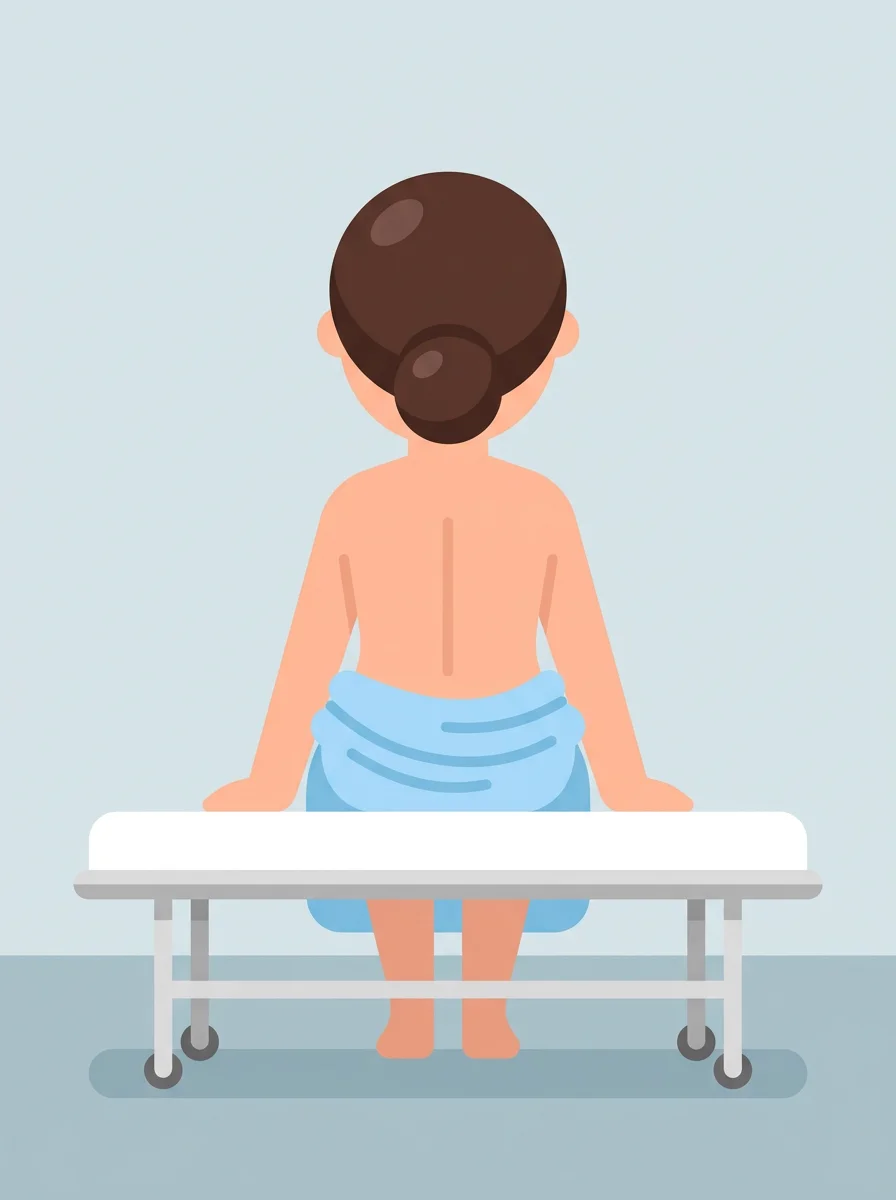
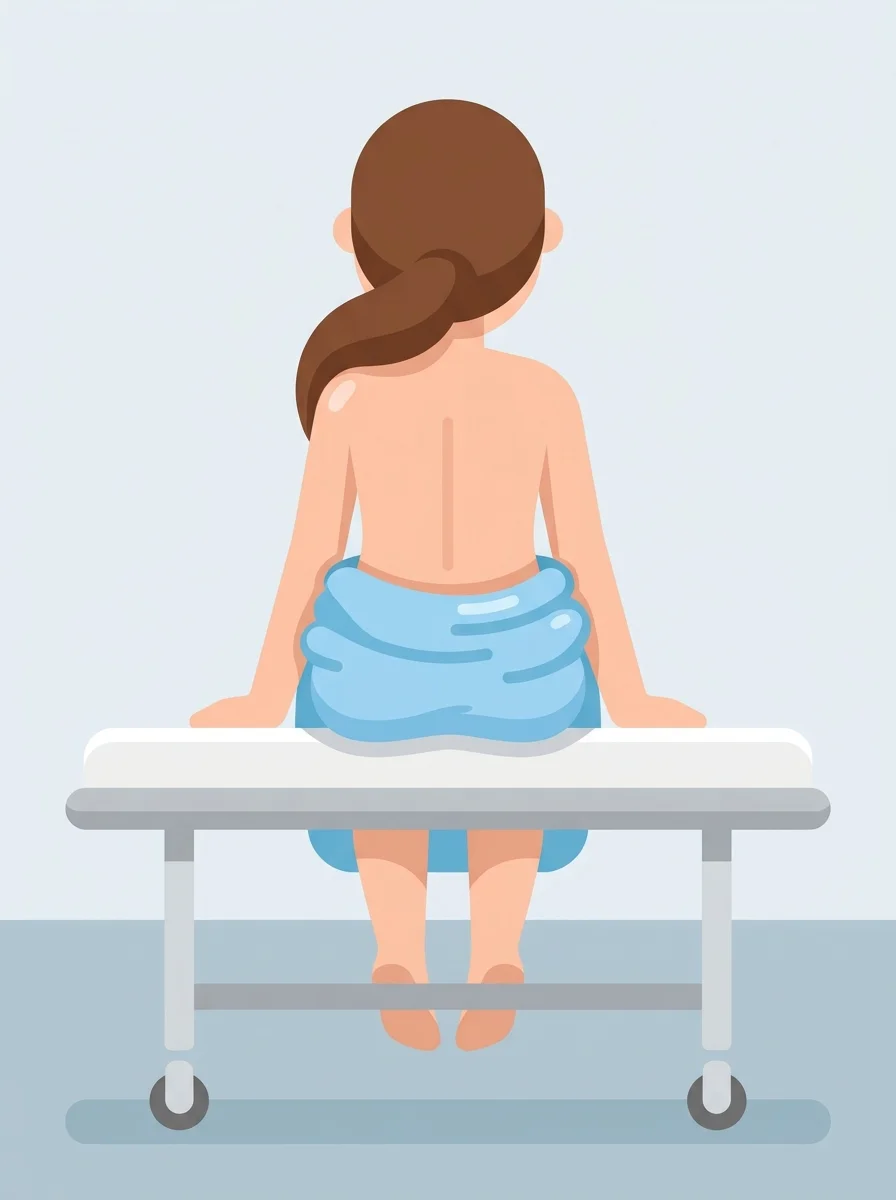
feat(plantao): fotos e corpos da ausculta coerentes com cada caso (Flow)
- Fotos do prontuário: politrauma (estava sem foto), TEP com cara de 59 anos (parecia ter mais de 70) e bebê de verdade na bronquiolite.
- Ausculta: DPOC com o próprio paciente (grisalho, cateter de O2) e choque anafilático com a mulher de 38 anos de rabo de cavalo; campos dos pulmões medidos em cada imagem.

diff --git a/src/features/plantao/PlantaoCena.jsx b/src/features/plantao/PlantaoCena.jsx
@@ -10,6 +10,8 @@ import falasAna from "@/data/falas/enfermeira-ana.json";
 import Prontuario from "./componentes/Prontuario.jsx";
 import FolhaResposta from "@/components/feedback/FolhaResposta.jsx";
 
+const CORPO_DA_AUSCULTA = { dpoc: "dpoc", choque_anafilatico: "mulher" };
+
 const RETORNO = {
   incompleto: { titulo: "Faltou um pedaço.", texto: "Responda de novo completando o que a Ana pediu." },
   nao_sabe: { titulo: "Sem problema.", texto: "Olhe o prontuário e tente responder com o que encontrar." },
@@ -59,8 +61,9 @@ export default function PlantaoCena({ cenario, onFinalizado, onSair, onProgresso
   // Retorno visual quando a resposta não fecha (a Ana também fala; aqui fica escrito para o aluno completar).
   const [retorno, setRetorno] = useState(null);
   // Paciente do minijogo de ausculta: o do mesmo sexo do caso.
-  // Corpo do paciente no minijogo de ausculta: mulher jovem, Dona Teresinha (idosa) ou Sr. Marcus.
-  const pacienteDoCaso = sexoDoCenario(cenario.id) === "F" ? (cenario.age < 60 ? "mulher" : "teresinha") : "marcus";
+  // Corpo do paciente no minijogo de ausculta, igual à foto do prontuário: casos com desenho próprio (DPOC e
+  // choque anafilático); nos outros, mulher jovem, Dona Teresinha (idosa) ou Sr. Marcus.
+  const pacienteDoCaso = CORPO_DA_AUSCULTA[cenario.id] ?? (sexoDoCenario(cenario.id) === "F" ? (cenario.age < 60 ? "mulher" : "teresinha") : "marcus");
   const [avaliando, setAvaliando] = useState(false);
   const [erro, setErro] = useState(null);
 

diff --git a/src/features/minijogos/logica/ausculta.js b/src/features/minijogos/logica/ausculta.js
@@ -13,6 +13,8 @@ export const IMAGENS = {
   "teresinha-costas": "/minijogos/ausculta/teresinha-costas.webp",
   // Mulher adulta jovem (38 anos, choque anafilático do Plantão): antes aparecia o corpo da Dona Teresinha.
   "mulher-costas": "/minijogos/ausculta/mulher-costas.webp",
+  // Homem de 64 anos do DPOC do Plantão, igual à foto do prontuário (grisalho, cateter de oxigênio).
+  "dpoc-costas": "/minijogos/ausculta/dpoc-costas.webp",
 };
 
 // Campos pulmonares (elipses) medidos em cada ilustração, antes da variação de anatomia de cada rodada.
@@ -30,8 +32,12 @@ const PULMOES = {
     { lado: "direito", cx: 532, cy: 536, rx: 72, ry: 104 },
   ],
   "mulher-costas": [
-    { lado: "esquerdo", cx: 394, cy: 572, rx: 48, ry: 86 },
-    { lado: "direito", cx: 502, cy: 572, rx: 48, ry: 86 },
+    { lado: "esquerdo", cx: 396, cy: 470, rx: 44, ry: 84 },
+    { lado: "direito", cx: 500, cy: 470, rx: 44, ry: 84 },
+  ],
+  "dpoc-costas": [
+    { lado: "esquerdo", cx: 372, cy: 490, rx: 66, ry: 82 },
+    { lado: "direito", cx: 524, cy: 490, rx: 66, ry: 82 },
   ],
 };
 const ESCALA = 2.24; // 896 / 400 (as distâncias abaixo foram pensadas numa cena de 400 de largura)

diff --git a/src/features/minijogos/componentes/tipos/Ausculta.jsx b/src/features/minijogos/componentes/tipos/Ausculta.jsx
@@ -33,7 +33,7 @@ const noPaciente = (p, encostado) => {
 export default function Ausculta({ definicao, conferir }) {
   const { achado, paciente = "marcus", vistas: vistasPedidas = ["costas"] } = definicao.ausculta;
   // Na frente só o Sr. Marcus; a Dona Teresinha é auscultada pelas costas.
-  const vistas = useMemo(() => (paciente === "teresinha" || paciente === "mulher" ? ["costas"] : vistasPedidas), [paciente, vistasPedidas]);
+  const vistas = useMemo(() => (paciente === "marcus" ? vistasPedidas : ["costas"]), [paciente, vistasPedidas]);
   // Anatomia e pontos do caso: estáveis durante a rodada.
   const caso = useMemo(() => montarCaso(achado, { rng: gerador(Math.floor(Math.random() * 1e9)), vistas, paciente }), [achado, vistas]);
   const [vista, setVista] = useState(vistas.includes("costas") ? "costas" : vistas[0]);
